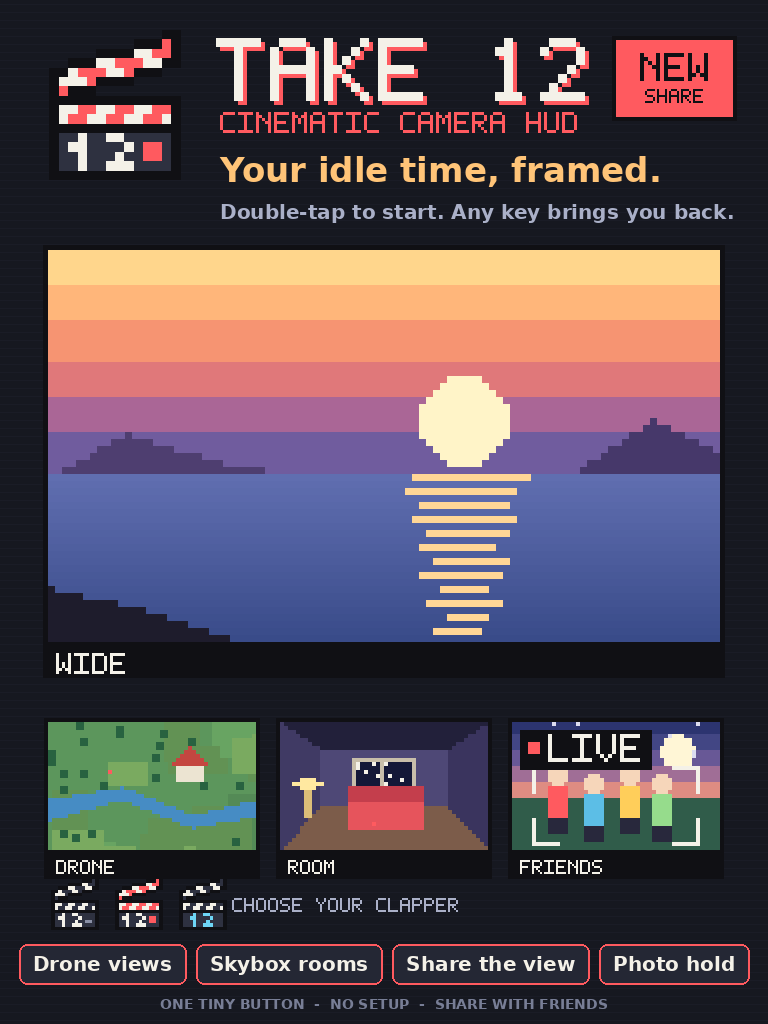
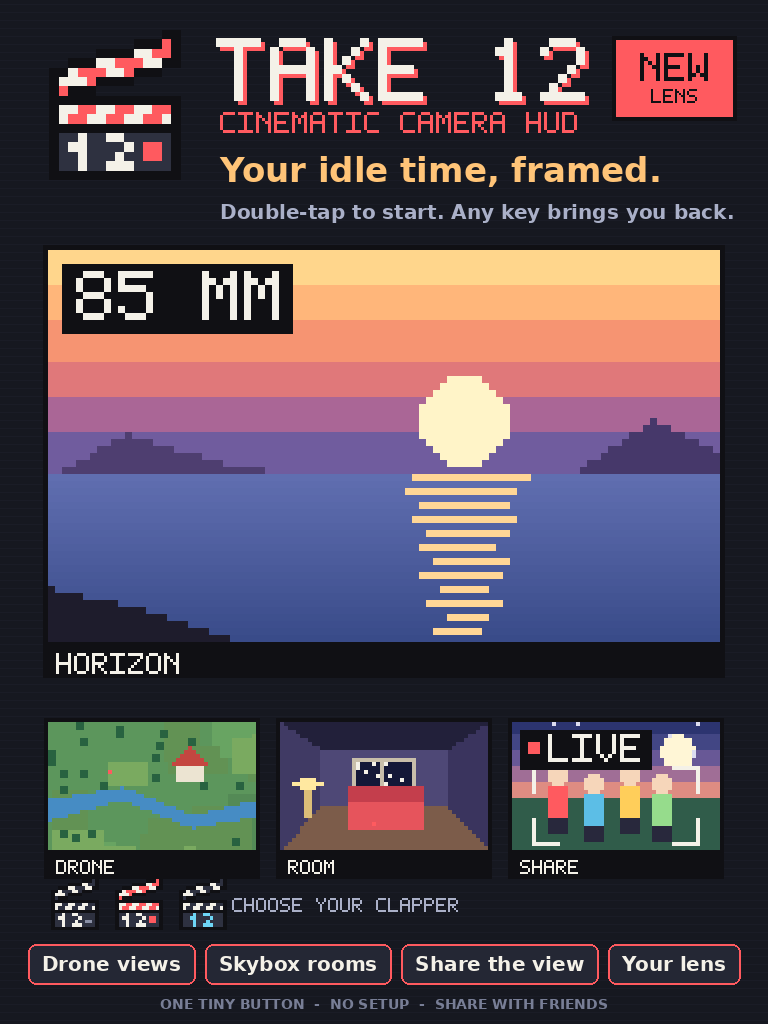
6.0.0: a tiny clap while filming (tips draws the sheet's clapped frame, 0.25 s every 8-12 s); ads and listing for 6.0 (NEW: YOUR LENS, lens readout, lens chip, lens copy)
Claude-Session: https://claude.ai/code/session_017fxCDsK7kSKGLKYB8MXKf1

diff --git a/tools/art/make_adboard.py b/tools/art/make_adboard.py
@@ -26,9 +26,9 @@ NAME = "TAKE 12"
 DESCRIPTOR = "CINEMATIC CAMERA HUD"
 TAGLINE = "Your idle time, framed."
 HOWTO = "Double-tap to start. Any key brings you back."
-NEW = "NEW: SHARE THE VIEW"                                  # the banner/stamp for the 5.5+ feature (Share the view)
+NEW = "NEW: YOUR LENS"                                       # the banner/stamp for the newest feature (6.0: your lens, everywhere)
 SMALL = "ONE TINY BUTTON  -  NO SETUP  -  SHARE WITH FRIENDS"
-CHIPS = ["Drone views", "Skybox rooms", "Share the view", "Photo hold"]
+CHIPS = ["Drone views", "Skybox rooms", "Share the view", "Your lens"]
 BG, PANEL, INK, CHALK, CORAL = (22, 24, 32), (36, 39, 52), (16, 16, 20), (244, 241, 232), (255, 90, 95)
 BOLD = "/usr/share/fonts/truetype/dejavu/DejaVuSans-Bold.ttf"
 LITE = False                      # main() runs the boards twice; True draws the Take 12 Lite versions
@@ -127,6 +127,8 @@ def scene_drone(w, h, r):
     d.rectangle([int(w * .3), int(h * .38), int(w * .3), int(h * .38)], fill=CORAL)      # you, tiny
     return im
 
+LENS_TAG = True     # the HUD's own lens readout on the horizon view (the Watch board draws its own text there)
+
 def scene_wide(w, h, r):
     im = Image.new("RGB", (w, h)); d = ImageDraw.Draw(im); hz = int(h * .58)
     bands(d, w, hz, hz, [(255, 214, 140), (255, 182, 122), (246, 148, 114), (224, 120, 122), (170, 102, 150), (112, 92, 158)])
@@ -139,6 +141,9 @@ def scene_wide(w, h, r):
         d.line([(0, yy), (w, yy)], fill=base)
         if yy % 2 == 0: d.line([(sx - int(5 * (1 - t) + 2 + (yy % 4)), yy), (sx + int(5 * (1 - t) + 2 + (yy % 3)), yy)], fill=(255, 214, 150))
     d.polygon([(0, h), (0, int(h * .86)), (int(w * .14), int(h * .92)), (int(w * .3), h)], fill=(30, 28, 44))
+    if LENS_TAG and not LITE:                                                                # "85 mm": your lens
+        d.rectangle([2, 2, 2 + 29 + 3, 2 + 9], fill=INK)
+        ptext(im, (4, 3), "85 MM", 1, CHALK)
     return im
 
 def scene_room(w, h, r):
@@ -180,7 +185,7 @@ def scene_friends(w, h, r):
         ptext(im, (9, 3), "LIVE", 1, CHALK)
     return im
 
-SCENES = [("DRONE", scene_drone), ("WIDE", scene_wide), ("ROOM", scene_room), ("SHARE", scene_friends)]
+SCENES = [("DRONE", scene_drone), ("HORIZON", scene_wide), ("ROOM", scene_room), ("SHARE", scene_friends)]
 
 def view(fn, gw, gh, scale, seed):
     return fn(gw, gh, random.Random(seed)).resize((gw * scale, gh * scale), Image.NEAREST)
@@ -263,7 +268,7 @@ def square():
         paste_framed(im, scene_img(lab, fn, gw, gh, sc, 11 + i), (x, y), label=lab + ("  -  FULL" if LITE and lab in FULL_ONLY else ""))
     chips(im, 936, ["Drone views", "Wide views", "AFK start", "Photo hold"] if LITE else CHIPS, 24, 40, S - 40)
     d.text((S // 2, 996), "THE EASY WAY IN  -  ONE TINY BUTTON  -  NO SETUP" if LITE else SMALL, font=font(16), fill=(120, 126, 150), anchor="mm")
-    if not LITE: newlabel(im, 48 + 64 * 7 + 40, 262 + 40 * 7 + 62, 64 * 7, 40 * 7, 3, NEW)   # the share view's label, in coral
+    if not LITE: newlabel(im, 48 + 64 * 7 + 40, 262, 64 * 7, 40 * 7, 3, NEW)                 # the horizon view's label, in coral
     return im
 
 def wide():
@@ -284,14 +289,14 @@ def wide():
     for x in range(10, W, 36):
         d.rounded_rectangle([x, sy + 8, x + 18, sy + 22], radius=3, fill=BG); d.rounded_rectangle([x, sy + sh - 22, x + 18, sy + sh - 8], radius=3, fill=BG)
     gw, gh, sc = 56, 36, 4
-    global TAG
-    TAG = False                                                  # the strip puts the view's name there instead
+    global TAG, LENS_TAG
+    TAG = LENS_TAG = False                                       # the strip puts the view's name there instead
     for i, (lab, fn) in enumerate(SCENES):
         x = 26 + i * (gw * sc + 24); y = sy + 36
         im.paste(scene_img(lab, fn, gw, gh, sc, 21 + i), (x, y)); d.rectangle([x - 2, y - 2, x + gw * sc + 1, y + gh * sc + 1], outline=(70, 74, 92), width=2)
         ptext(im, (x + 8, y + 8), lab, 2, CHALK, shadow=INK)
-        if lab == "SHARE" and not LITE: banner(im, x, y + gh * sc + 10, gw * sc, "NEW: SHARE", 2)
-    TAG = True
+        if lab == "HORIZON" and not LITE: banner(im, x, y + gh * sc + 10, gw * sc, "NEW: YOUR LENS", 2)
+    TAG = LENS_TAG = True
     d.text((W - 36, 150), "TAP  menu\nDOUBLE-TAP  go\nHOLD  share", font=font(22), fill=CHALK, anchor="ra", spacing=8)
     return im
 
@@ -316,8 +321,8 @@ def vendor():
         looks(im, 80, 784, 96, 14)
         ptext(im, (80, 894), "3 CLAPPER LOOKS", 2, (170, 176, 200))
         chips(im, 790, ["Drone", "Skybox"], 30, 420, S - 60)
-        chips(im, 870, ["Share live", "Photo hold"], 30, 420, S - 60)
-        stamp(im, (730, 44, 976, 126), [("NEW", 3), ("SHARE THE VIEW", 2)])
+        chips(im, 870, ["Share live", "Your lens"], 30, 420, S - 60)
+        stamp(im, (730, 44, 976, 126), [("NEW", 3), ("YOUR LENS", 2)])
     d.text((S // 2, 990), "ONE TINY BUTTON  -  SHARE WITH FRIENDS" if not LITE else "ONE TINY BUTTON  -  STILL, CONTEMPLATIVE CUTS", font=font(20), fill=(120, 126, 150), anchor="mm")
     return im
 
@@ -332,6 +337,8 @@ def watch():
     d.text((240, 206), "Wear it. Nothing to click.", font=font(22), fill=(170, 176, 200))
     stamp(im, (820, 40, 980, 124), [("FREE", 5)])
     gw, gh, sc = 96, 56, 9
+    global LENS_TAG
+    LENS_TAG = False
     hero = scene_wide(gw, gh, random.Random(31)).resize((gw * sc, gh * sc), Image.NEAREST)   # their camera, with the Watch's own text
     t = "WATCHING PANO"; ImageDraw.Draw(hero).rectangle([20, 20, 20 + pwidth(t, 3) + 24, 20 + 7 * 3 + 20], fill=INK)
     ptext(hero, (32, 30), t, 3, CHALK); hx, hy = 80, 246
@@ -360,8 +367,8 @@ def portrait():
     d.text((220, 150), TAGLINE, font=font(34), fill=(255, 196, 120))
     d.text((220, 200), HOWTO, font=font(20), fill=(170, 176, 200))
     gw, gh, sc = 96, 56, 7; hx, hy = 48, 250                       # the hero view, 672 x 392
-    paste_framed(im, scene_img("WIDE", scene_wide, gw, gh, sc, 41), (hx, hy), border=5, label="WIDE")
-    small = [("DRONE", scene_drone), ("ROOM", scene_room), ("FRIENDS", scene_friends)]; gw2, gh2, sc2 = 52, 32, 4; y2 = 722
+    paste_framed(im, scene_img("HORIZON", scene_wide, gw, gh, sc, 41), (hx, hy), border=5, label="HORIZON")
+    small = [("DRONE", scene_drone), ("ROOM", scene_room), ("SHARE", scene_friends)]; gw2, gh2, sc2 = 52, 32, 4; y2 = 722
     for i, (lab, fn) in enumerate(small):
         x = 48 + i * (gw2 * sc2 + 24)
         paste_framed(im, scene_img(lab, fn, gw2, gh2, sc2, 51 + i), (x, y2), border=4, label=lab + ("  FULL" if LITE and lab in FULL_ONLY else ""), lab_scale=2)
@@ -371,7 +378,7 @@ def portrait():
         looks(im, 48, 876, 54, 10); ptext(im, (232, 898), "CHOOSE YOUR CLAPPER", 2, (170, 176, 200))
     chips(im, 944, _chip_list(), 20, 30, W - 30, gap=10)
     d.text((W // 2, 1004), ("THE EASY WAY IN  -  ONE TINY BUTTON" if LITE else SMALL), font=font(14), fill=(120, 126, 150), anchor="mm")
-    if not LITE: stamp(im, (612, 36, 736, 120), [("NEW", 4), ("SHARE", 2)])
+    if not LITE: stamp(im, (612, 36, 736, 120), [("NEW", 4), ("LENS", 2)])
     return im
 
 def landscape43():
@@ -392,7 +399,7 @@ def landscape43():
         paste_framed(im, scene_img(lab, fn, gw, gh, sc, 61 + i), (x, y), border=4, label=lab + ("  -  FULL" if LITE and lab in FULL_ONLY else ""), lab_scale=2)
     chips(im, 690, _chip_list(), 20, 30, W - 30, gap=12)
     d.text((W // 2, 748), ("THE EASY WAY IN  -  ONE TINY BUTTON" if LITE else SMALL), font=font(14), fill=(120, 126, 150), anchor="mm")
-    if not LITE: newlabel(im, 156 + 56 * 6 + 40, 186 + 34 * 6 + 48, 56 * 6, 34 * 6, 2, NEW)
+    if not LITE: newlabel(im, 156 + 56 * 6 + 40, 186, 56 * 6, 34 * 6, 2, NEW)
     return im
 
 if __name__ == "__main__":

diff --git a/tools/sim/tips_sim.py b/tools/sim/tips_sim.py
@@ -6,7 +6,7 @@
 # Notices: another script's text is never overwritten, the status comes back once it is cleared.
 # Tips (5.7.0): one per camera, short, under the status line, 20 s apart, each retires after 3 showings, Tips turns
 # itself off (all retired, or 24 in all) with one chat line, turning Tips back on starts from zero.
-import os, re, math
+import os, re, math, random
 
 R = os.path.join(os.path.dirname(os.path.abspath(__file__)), "..", "..")
 src = open(os.path.join(R, "hud", "src", "tips.lsl")).read()
@@ -80,6 +80,7 @@ class Hud:
         s.st = ""; s.mode = ""; s.why = ""; s.led = False; s.still = ""; s.kind = ""; s.syncb = ""; s.tip = ""; s.last = ""
         s.want_i = -1; s.wantT = 0; s.showT = 0.0; s.lastT = -100.0
         s.rollT = 0.0; s.more = False; s.sat = False; s.sitting = False; s.lens_tip = False; s.fov = math.radians(60)
+        s.clapT = 0.0; s.clapEnd = 0.0; s.claps = []; s.shut = False; s.rnd = random.Random(7)
         s.load()
     def load(s):
         s.on = s.lsd["tips"] != "0"; s.stat = s.lsd["status"] != "0"; s.skin = int(s.lsd["skin"])
@@ -122,7 +123,8 @@ class Hud:
         s.gtext = t; s.text = llSetText(t); s.last = s.text
     def after(s):                            # the script's tick(): draw, then how often the timer runs (0 = stopped)
         s.draw()
-        s.rate = 0.5 if (s.want_i >= 0 or s.showT > 0) else (1.0 if (s.last != "" or s.rollT > 0 or s.syncb != "") else 0.0)
+        if s.clapEnd > 0: s.rate = 0.25; return
+        s.rate = 0.5 if (s.want_i >= 0 or s.showT > 0 or s.clapT > 0) else (1.0 if (s.last != "" or s.rollT > 0 or s.syncb != "") else 0.0)
     def show(s, i):
         assert s.free(), "a tip over another script's text"
         s.tip = TIPS[i]
@@ -152,6 +154,11 @@ class Hud:
                 elif st == "armed" and s.lsd["afk_on"] == "1": s.want(11)
             s.st = st; s.mode = mode
         s.why = why
+        if st != "rolling":
+            s.clapT = 0.0
+            if s.clapEnd > 0: s.shut = False
+            s.clapEnd = 0.0
+        elif s.clapT == 0.0: s.clapT = s.t
         if mode != "friends": s.led = False
         s.after()
     def lens(s, dist): s.led = dist > 0; s.after()
@@ -165,6 +172,9 @@ class Hud:
         s.after()
     def tick(s):
         now = s.t
+        if s.clapEnd > 0 and now >= s.clapEnd: s.clapEnd = 0.0; s.shut = False
+        elif s.clapT > 0 and now >= s.clapT:
+            s.shut = True; s.claps.append(now); s.clapEnd = now + 0.25; s.clapT = now + 8.0 + s.rnd.random() * 4.0
         if s.showT > 0 and now - s.showT >= HOLD: s.tip = ""; s.showT = 0.0
         if s.rollT > 0 and s.st == "rolling" and s.want_i < 0 and s.showT == 0:
             m = MODES.index(s.mode) if s.mode in MODES else -1
@@ -177,8 +187,8 @@ class Hud:
             elif now - s.wantT >= LATE and now - s.lastT >= GAP and s.free(): s.show(s.want_i)
         s.after()
     def run(s, sec):                         # only a running timer ticks
-        for _ in range(int(sec * 2)):
-            s.t += 0.5
+        for _ in range(int(sec * 4)):
+            s.t += 0.25
             if s.rate > 0 and s.t - s.tickT >= s.rate - 1e-9: s.tickT = s.t; s.tick()
     def attach(s): s.want(0); s.after()
 
@@ -246,6 +256,23 @@ check([i for _, i in h.log][-2:] == [3, 12], f"the lens tip must follow the Us t
 h.run(60); check([i for _, i in h.log].count(12) == 1, "the lens tip must come once per run")
 h = Hud(); h.zoom(35); h.state("armed"); h.run(30); h.state("rolling", "social"); h.run(60)
 check(12 not in [i for _, i in h.log], "no lens tip when the lens is in range")
+
+# ---- the button: a tiny clap while filming (the sheet's clapped frame), still otherwise --------------------------
+ui = open(os.path.join(R, "hud", "src", "ui.lsl")).read()
+body = lambda src_, name: re.sub(r"\s+", " ", re.search(name + r"\(integer \w+\)\s*\{(.*?)\n\}", src_, re.S).group(1))
+check(body(src, "clap").replace("integer k = 2 * gLook + shut;", "").strip() == body(ui, "frame").strip(),
+      "tips' clap must draw the sheet exactly as ui's frame()")
+for frag in ('else if (gClapT == 0.0) gClapT = llGetTime();   // the camera rolls: a clap now', 'gClapT = now + 8.0 + llFrand(4.0);',
+             'gClapEnd = now + 0.25;', 'if (gClapEnd > 0.0) llSetTimerEvent(0.25);', 'str == "look" || str == "face"'):
+    check(frag in src, f"tips: missing {frag}")
+h = Hud(on="0"); h.state("armed"); h.run(30); check(h.claps == [], "the button must be still with your own camera")
+h.state("rolling", "scenery"); h.run(0.25); check(len(h.claps) == 1 and h.shut, "a clap when the camera starts")
+h.run(0.5); check(not h.shut, "the clap must last a quarter of a second")
+h.run(60); n = len(h.claps); gaps = [b - a for a, b in zip(h.claps, h.claps[1:])]
+check(6 <= n <= 9 and all(7.9 <= g <= 12.6 for g in gaps), f"claps every 8-12 s while filming: {n}, gaps {gaps}")
+h.state("frozen", "scenery"); n = len(h.claps); h.run(30); check(len(h.claps) == n and not h.shut, "no clap during Photo")
+h.state("rolling", "scenery"); h.run(1); check(len(h.claps) == n + 1, "the clap comes back when filming resumes")
+h.state("off"); n = len(h.claps); h.run(30); check(len(h.claps) == n and not h.shut, "still again when your camera is back")
 
 # ---- sharing -----------------------------------------------------------------------------------------------------
 h = Hud(on="0"); h.state("rolling", "social"); h.sharing("live", "● LIVE · 2 watching\nAna · Ben"); h.run(1)

diff --git a/tools/sim/listing_check.py b/tools/sim/listing_check.py
@@ -44,7 +44,8 @@ for name, text in (("listing", main), ("watch listing", watch)):
 # ---- the boards say what the listing says ------------------------------------------------------------------------
 const = lambda n: re.search(r"^" + n + r' = "(.*?)"', art, re.M).group(1)
 check(const("TAGLINE") in main, "listing: the boards' tagline is not in the listing")
-check("SHARE" in const("NEW") and "NEW" in const("NEW"), "boards: the NEW label must mention sharing")
+check("LENS" in const("NEW") and "NEW" in const("NEW"), "boards: the NEW label must name the newest feature (6.0: your lens)")
+check("Your lens" in re.search(r"CHIPS = \[(.*?)\]", art).group(1), "boards: a chip for the lens")
 chips = re.search(r"CHIPS = \[(.*?)\]", art).group(1)
 check("Share the view" in chips and "Friends mode" not in chips, f"boards: chips {chips}")
 check("Double-tap to start" in const("HOWTO") and "HOLD  share" in art, "boards: the how-to lines")

diff --git a/hud/marketing/marketplace_listing.md b/hud/marketing/marketplace_listing.md
@@ -3,7 +3,7 @@
 The Marketplace description is plain text. Copy each block below as it is: no bold, no headings, only "-" lists.
 Fields marked (you) need your own details (price, creator, support contact).
 
-This is the 5.8 text. The 4.8 listing is kept in `legacy/` ("your idle time, on film" is in the older ones: it was
+This is the 6.0 text. The 4.8 listing is kept in `legacy/` ("your idle time, on film" is in the older ones: it was
 replaced because "film" and "filming" made people think the HUD records video, which it does not).
 The free Take 12 Watch has its own listing: `watch/marketing/marketplace_listing_watch.md`.
 
@@ -21,7 +21,7 @@ Take 12 - Cinematic Camera HUD: Drone Views, Skybox Rooms, Share Your View
 
 ## Short description (the line search results show; keep it first)
 ```
-A camera HUD that takes your view off your avatar's back: drone views, wide horizons, skybox corners and group shots, chosen automatically, a new one every minute. Share your view live with friends. One button. Any movement key brings your camera back.
+A camera HUD that takes your view off your avatar's back: drone views, wide horizons, skybox corners and group shots, chosen automatically and framed for your lens, a new one every minute. Share your view live with friends. One button. Any movement key brings your camera back.
 ```
 
 ## Full description
@@ -84,7 +84,7 @@ WHO IT IS FOR
 - Friends who want to watch the same view at the same time, on a tour or at an event.
 
 GOOD TO KNOW
-- One small button, a pixel-art clapper in three looks. It stays the same while the camera runs. (Second Life leaves HUDs out of snapshots unless you ask for them.)
+- One small button, a pixel-art clapper in three looks. While the camera runs it gives a tiny clap now and then; with your own camera it is still. (Second Life leaves HUDs out of snapshots unless you ask for them.)
 - Wear it on a HUD point (Top Right is usual) and allow camera control once.
 - It only moves your view, inside the region you are in. Nothing is recorded. When you share, only the camera position goes to the people you invite.
 - The Take 12 Watch is free, for friends who do not own Take 12. The Share panel can hand one to a friend near you.
@@ -97,14 +97,14 @@ GOOD TO KNOW
 ```
 Automatic camera views from beyond your avatar's back
 Scenery: drone and horizon views up to 100 m, skybox aware
+Your lens, everywhere: every camera frames for your zoom
 Share your view live with friends: free Take 12 Watch for them
-Me, Us and Still cameras; frame it yourself and it keeps your view
 One button: tap, double-tap, hold; any movement key to return
 ```
 
 ## Keywords
 ```
-take 12, take12, camera, camera hud, cinematic camera, auto camera, portrait, camera control, drone camera, drone view, scenery, skybox, afk, photography, snapshot, view, friends, social, group shot, photo, hud, share, watch, share view, live view, group view, tour
+take 12, take12, camera, camera hud, cinematic camera, auto camera, portrait, camera control, drone camera, drone view, scenery, skybox, afk, photography, snapshot, view, friends, social, group shot, photo, hud, share, watch, share view, live view, group view, tour, lens, zoom, telephoto, portrait lens, focal length
 ```
 
 ## Short promo lines (group notices, social posts)
@@ -113,7 +113,8 @@ Your idle time, framed.
 Your camera, off your avatar's back.
 See your region from the sky, the horizon and the corner of the room. Automatically.
 One button: drone views, skybox rooms, friends in one frame.
-New: hold the button, go live, and your friends watch your view.
+New: your zoom is your lens, and every camera frames for it.
+Hold the button, go live, and your friends watch your view.
 ```
 
 ## One line "what is it?" (for a vendor or a friend)
@@ -128,6 +129,7 @@ Take 12 6.0: your lens, everywhere.
 - A longer lens brings more close views of faces, a wider one more of the place.
 - The line above the button shows your lens and the range each camera likes.
 - Still names the classic portrait lens for each framing (50, 85, 105 mm), and Shift + A/D slides you across the picture.
+- While the camera runs, the little clapper gives a tiny clap now and then.
 Get the new version from your Marketplace purchases (Update), and read the new notecard.
 ```
 
@@ -157,9 +159,9 @@ The boards use drawn pixel-art "views", **not real screenshots**. Marketplace bu
 3. A group of friends framed together (Us > Only friends).
 4. The seated view from above (sit on a bed or a sofa with a friend).
 5. Sharing: the Share panel open (hold the button), or the "LIVE - 2 watching" text above the HUD.
-6. The status line above the button, for example "Scenery - auto".
+6. The line above the button with your lens, for example "Us - auto - 50 mm" (zoom in first with Ctrl+0).
 7. The menu open on screen: Tap shows the main menu, in the Symbols style.
 
 Tips for the snapshots: use Photo hold for a steady shot, hide your UI (Ctrl+Alt+F1 in Firestorm) except for the shots that show the HUD text, and use a high-quality setting. Keep the same look: square, with a little room around the subject.
 
-The boards say "Your idle time, framed.", "Double-tap to start. Any key brings you back." and a "NEW: SHARE THE VIEW" ribbon. To change a line, edit the `NAME`, `DESCRIPTOR`, `TAGLINE`, `HOWTO` and `NEW` constants (and the chip texts) in `tools/art/make_adboard.py` and run `python3 tools/art/make_adboard.py`. Still is not on the boards on purpose: they sell the automatic camera and sharing. (Lite's boards are paused with Lite; add `--lite` to rebuild them.)
+The boards say "Your idle time, framed.", "Double-tap to start. Any key brings you back." and a coral "NEW: YOUR LENS" label under the horizon view, which shows the HUD's own lens readout ("85 MM"). To change a line, edit the `NAME`, `DESCRIPTOR`, `TAGLINE`, `HOWTO` and `NEW` constants (and the chip texts) in `tools/art/make_adboard.py` and run `python3 tools/art/make_adboard.py`. Still is not on the boards on purpose: they sell the automatic camera and sharing. (Lite's boards are paused with Lite; add `--lite` to rebuild them.)

diff --git a/docs/PRODUCT.md b/docs/PRODUCT.md
@@ -15,7 +15,7 @@ A movement key, a tap or typing gives your camera back.
 ## Principles
 A guide for every feature, not ad copy.
 1. **It decides; you accept or skip.** Take 12 chooses the view. Your part is a double-tap at most.
-2. **Calm.** Long holds, few cuts, a quiet chat, a small button that stays the same.
+2. **Calm.** Long holds, few cuts, a quiet chat, a small button that stays still with your own camera (6.0: a tiny clap now and then while filming).
 3. **No settings on screen.** No numbers, no jargon. Details live in the Read Me.
 4. **One button.** Everything else is optional.
 5. **Restraint.** A feature earns its place by making the experience easier, not by being a feature.
@@ -27,7 +27,7 @@ The tone of every text follows the product: plain, understated, no slogans. Thin
 |---|---|
 | Icon | A **deliberately pixel-art clapperboard**: 16×16, a few colours with a dark 1 px outline, fun rather than serious. The textures are in `hud/art/`; "Rec" is the default |
 | Size and place | About 40 px, **top right** by default. You can move it like any HUD |
-| Feedback | **None on the button (4.7).** The button is the plain logo at full strength, the same idle or rolling: the screen itself shows that the camera runs. (The old 40 % fade washed the small icon out on busy scenes, and HUDs are not in snapshots anyway.) |
+| Feedback | **A tiny clap while filming (6.0).** The button is the plain logo at full strength. While a camera runs, `tips` shows the sheet's clapped frame for a quarter second when it starts and then every 8–12 s; with your own camera, in Photo and in a pause it is still. (4.7 removed the 40 % fade, which washed the small icon out on busy scenes; HUDs are not in snapshots anyway.) |
 
 ## Gestures
 | Gesture | Idle | Rolling | Photo hold |

diff --git a/CHANGELOG.md b/CHANGELOG.md
@@ -16,6 +16,15 @@
 - **Scenery stays wide.** Zooming gives a telephoto detail of the same view.
 - **A new tip, "Your lens":** Ctrl+0 / Ctrl+8 / Ctrl+9, once per run when the lens is outside the camera's range.
 - **Memory:** `friends` is at 12.5 KB free by the stricter estimate (two trace details shortened).
+- **The button comes alive, quietly.** While a camera runs, the clapper gives a tiny clap: the sheet's own clapped frame, for a quarter of a second, when it starts and then every 8–12 s. It is still with your own camera, in Photo and in a pause. There is no new texture to upload: it uses the clapped frames that are already on the sheet. It is drawn by `tips`, which has the room (ui is kept above 13 KB), with exactly ui's `frame()` maths.
+- **Ads for 6.0:**
+  - the coral label now reads **NEW: YOUR LENS**, under the sunset view (now HORIZON), which carries the HUD's own "85 MM" readout;
+  - "Your lens" replaces the Photo hold chip;
+  - the vendor and portrait stamps say Your lens.
+- **The listing:**
+  - lens-aware short description, a Features line (Your lens, everywhere), lens keywords and a promo line;
+  - the clap in Good to know and in What is new;
+  - the lens line in the shot list.
 - **Docs:** a new Read Me section, YOUR LENS. ARCHITECTURE (FOVMSG, GLIDE), FRAME.md, the listing (YOUR LENS, "What is new in 6.0") and `listing_check` are updated.
 - **Tests:**
   - **new `tools/sim/zoom_sim.py`:** size and angle kept over every lens pair, the fallback, the close-view table, and the scripts' handlers;

diff --git a/hud/marketing/README.md b/hud/marketing/README.md
@@ -4,7 +4,7 @@
 |---|---|
 | `marketplace_listing.md` | Copy-paste text for the Marketplace listing (5.8): name ideas, description, features, tags, promo lines, the "what is new" update message, image list |
 | `legacy/` | The earlier listings and intros (4.4, 4.8) |
-| `adboard_square_1024.png` | Square ad board for the Marketplace main image (with the coral "NEW: SHARE THE VIEW" label) |
+| `adboard_square_1024.png` | Square ad board for the Marketplace main image (with the coral "NEW: YOUR LENS" label and the "85 MM" lens readout) |
 | `adboard_portrait_3x4_768x1024.png` | **3:4 portrait** ad (one big view, three small views, chips) |
 | `adboard_landscape_4x3_1024x768.png` | 4:3 landscape ad, in case a listing shows the picture the other way round |
 | `adboard_wide_1024x512.png` | Wide ad board for an in-world vendor or banner |
